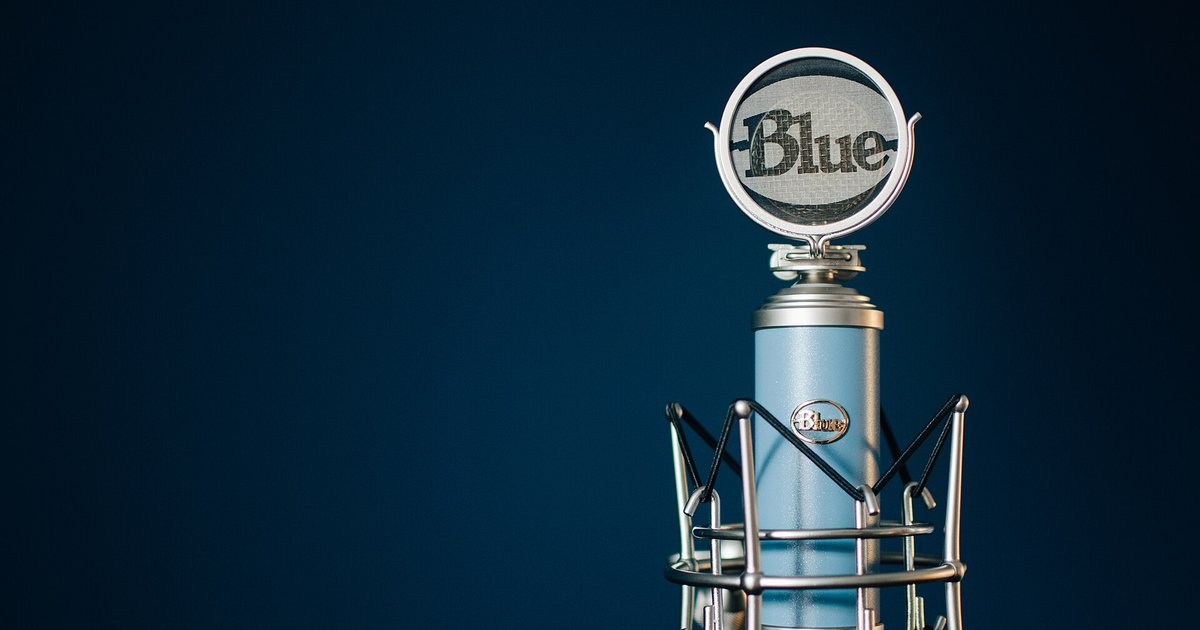
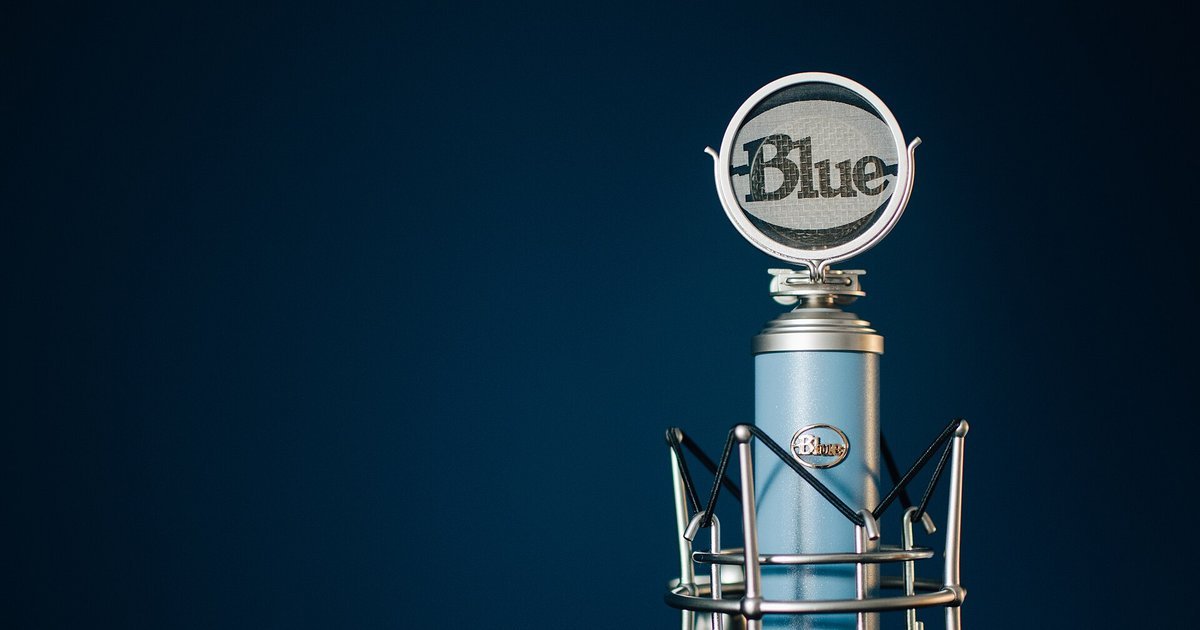
Azken artikuluei CC azal-irudiak gehitu
- FUTO (bi), GLiNER2, EvalEU eta NongoEuskara: Wikimedia Commons-eko irudiak cover gisa, aitortzarekin
- Pocket TTS mikrofonoaren mozketa zuzenduta zerrendan burua ikusteko
- Erabiltzen ez ziren ingelesezko FUTO txartelak kenduta

Changed region(s): [[0.555, 0.6333, 0.8325, 1.0], [0.5858, 0.0603, 0.7708, 0.573]]

diff --git a/content/blog/nongoeuskara.md b/content/blog/nongoeuskara.md
@@ -2,7 +2,9 @@
 title: "Euskalkiak identifikatzen"
 date: 2026-06-28
 description: "NongoEuskara: testu bat zein euskalkitan idatzia dagoen asmatzen duen fastText eredua, nabigatzailean WebAssembly bidez exekutatzen dena."
-images: ["images/pi_autoresearch_zeineuski.png"]
+cover:
+    image: "/images/nongoeuskara-cover.jpg"
+    alt: "Euskalkien mapa (Koldo Zuazo, 2019)"
 draft: false
 tags: ["ai", "euskara", "euskalkiak", "dialect", "fasttext", "autoreserch", "webassembly", "wasm"]
 ---
@@ -43,3 +45,5 @@ Eredu hauekin zer egin, eta demo txukun bat egin behar zela pentsatu nuen. Web e
 Erabiltzaileak testu bat sartu, identifikatu eta Euskal Herriko mapan azpieuskalkia eta dagokion eskualde multzoa azpimarratzea nahi nuen. **Spoiler:** nola ez, *frontend* zati hau izan da gehien kostatu zaidan zatia! Entrenamendua baina gehiago!
 
 Hau egiteko, *WebAssembly* (*WASM*) bidez exekutatu behar izan dut eredua, aldez aurretik *kuantizatuta* (konprimatuta). Ondorio gisa: **_WASM_** ikaragarria da horrelako gauzetarako! Zerbitzaririk gabe, datuak inora bidali gabe, erabiltzaileok gure nabigatzaileetan punta-puntako aplikazio edo adimen artifizialeko ereduak exekutatu ditzakegu.
+
+*Azaleko irudia: [Euskalkien mapa, 2019](https://commons.wikimedia.org/wiki/File:Koldo_Zuazo_-_Euskalkien_mapa,_2019.jpg), Koldo Zuazo, [CC BY-SA 4.0](https://creativecommons.org/licenses/by-sa/4.0/).*

diff --git a/content/blog/nongoeuskara.en.md b/content/blog/nongoeuskara.en.md
@@ -2,7 +2,9 @@
 title: "Identifying Basque dialects"
 date: 2026-06-28
 description: "NongoEuskara: a fastText model that guesses which Basque dialect a text is written in, running in the browser via WebAssembly."
-images: ["images/pi_autoresearch_zeineuski.png"]
+cover:
+    image: "/images/nongoeuskara-cover.jpg"
+    alt: "Map of Basque dialects (Koldo Zuazo, 2019)"
 draft: false
 tags: ["ai", "basque", "dialects", "dialect", "fasttext", "autoresearch"]
 ---
@@ -42,3 +44,5 @@ With these models in hand, I thought, "what do I do with them?" — and decided 
 I wanted users to enter a text, have it identified, and then highlight the sub-dialect and corresponding region on a map of the Basque Country. **Spoiler:** of course, the *frontend* part was the most painful bit! Even more than the training!
 
 To do this, I had to run the model via *WebAssembly* (*WASM*), previously *quantized* (compressed). Same conclusion again: *WASM* is amazing for this kind of thing! Without a server, without sending data anywhere, we as users can run cutting-edge applications or AI models right in our browsers.
+
+*Cover image: [Euskalkien mapa, 2019](https://commons.wikimedia.org/wiki/File:Koldo_Zuazo_-_Euskalkien_mapa,_2019.jpg), Koldo Zuazo, [CC BY-SA 4.0](https://creativecommons.org/licenses/by-sa/4.0/).*

diff --git a/content/blog/gliner2-pii-euskaraz.md b/content/blog/gliner2-pii-euskaraz.md
@@ -2,7 +2,9 @@
 title: "Datu pertsonalak ezkutatzen euskarazko testuetan"
 date: 2026-10-10
 description: "GLiNER2 eredua euskarara egokitzen, testuetako datu pertsonalak (izenak, telefonoak, helbideak, NANak...) detektatzeko: babes-geruza gehigarri bat."
-images: ["images/gliner2-pii-euskaraz-cover.jpg"]
+cover:
+    image: "/images/gliner2-pii-euskaraz-cover.jpg"
+    alt: "Lupa bat testu baten gainean"
 draft: false
 tags: ["ai", "euskara", "pii", "pribatutasuna", "gliner2", "ner", "lora", "tknika"]
 ---
@@ -60,3 +62,5 @@ Edo hizkuntza eredu bati (LLM) zerbait eskatu aurretik, nahi gabe idatzi dugun i
 > Kontuan izan: ebaluazioa datu sintetikoekin egin da, eta benetako testuetan emaitzak okerragoak izango dira. Ereduak [CC BY-NC-SA 4.0](https://creativecommons.org/licenses/by-nc-sa/4.0/) lizentzia du (erabilera ez-komertziala), BasqueGLUE-k lizentzia hori duelako.
 
 Eredua, datu-sorta eta kodea eskuragarri daude: [Hugging Face](https://huggingface.co/tknika/gliner2-PII-basque-v2) eta [GitHub](https://github.com/tknika/gliner2-pii-basque).
+
+*Azaleko irudia: [Magnifying glass with focus on paper](https://commons.wikimedia.org/wiki/File:Magnifying_glass_with_focus_on_paper.png), Niabot, [CC BY-SA 3.0](https://creativecommons.org/licenses/by-sa/3.0/).*

diff --git a/content/blog/futo-ahotsa-euskaraz.en.md b/content/blog/futo-ahotsa-euskaraz.en.md
@@ -2,7 +2,9 @@
 title: "Dictating in Basque on mobile, without sending your voice anywhere"
 date: 2026-07-21
 description: "A Basque Whisper model for FUTO Keyboard: dictate in Basque on your phone, with everything running on the device and no audio sent anywhere."
-images: ["images/futo-ahotsa-euskaraz-en-cover.jpg"]
+cover:
+    image: "/images/futo-ahotsa-euskaraz-cover.jpg"
+    alt: "Speaking into a phone"
 draft: false
 tags: ["ai", "euskara", "basque", "stt", "asr", "whisper", "whisper.cpp", "acft", "futo", "voice-input"]
 ---
@@ -64,3 +66,5 @@ And you're done! Tap the microphone button and speak in Basque.
 - **Evaluation**: so far I've only run a few tests. A more thorough evaluation is still needed.
 
 The models are available [on Hugging Face](https://huggingface.co/itzune/whisper-small-eu-acft-ggml), as part of the [Itzune](https://huggingface.co/itzune) project. Together with predictive text, we now have the full FUTO keyboard in Basque: for typing and for speaking, all on our own phone. Try it out and let me know how it goes!
+
+*Cover image: [Woman speaking on phone](https://commons.wikimedia.org/wiki/File:Woman_speaking_on_phone.jpg), Queen Asali, [CC BY-SA 4.0](https://creativecommons.org/licenses/by-sa/4.0/).*

diff --git a/content/blog/gliner2-pii-euskaraz.en.md b/content/blog/gliner2-pii-euskaraz.en.md
@@ -2,7 +2,9 @@
 title: "Hiding personal data in Basque texts"
 date: 2026-10-10
 description: "Adapting GLiNER2 to Basque to detect personal data (names, phone numbers, addresses, IDs...) in texts: an extra layer of protection."
-images: ["images/gliner2-pii-euskaraz-cover.jpg"]
+cover:
+    image: "/images/gliner2-pii-euskaraz-cover.jpg"
+    alt: "A magnifying glass over text"
 draft: false
 tags: ["ai", "euskara", "basque", "pii", "privacy", "gliner2", "ner", "lora", "tknika"]
 ---
@@ -60,3 +62,5 @@ Or before asking a language model (LLM) for something, to catch a name or phone 
 > Keep in mind: the evaluation was done on synthetic data, and results on real texts will be worse. The model is licensed under [CC BY-NC-SA 4.0](https://creativecommons.org/licenses/by-nc-sa/4.0/) (non-commercial use), because BasqueGLUE has that license.
 
 The model, dataset and code are available on [Hugging Face](https://huggingface.co/tknika/gliner2-PII-basque-v2) and [GitHub](https://github.com/tknika/gliner2-pii-basque).
+
+*Cover image: [Magnifying glass with focus on paper](https://commons.wikimedia.org/wiki/File:Magnifying_glass_with_focus_on_paper.png), Niabot, [CC BY-SA 3.0](https://creativecommons.org/licenses/by-sa/3.0/).*

diff --git a/content/blog/futo-euskaraz.md b/content/blog/futo-euskaraz.md
@@ -2,7 +2,9 @@
 title: "Euskarazko testu prediktiboa mugikorretan pribatutasuna errespetatuz"
 date: 2026-07-20
 description: "FUTO Keyboard-erako euskarazko hizkuntza eredu txikia: hurrengo hitza iragarri eta akatsak zuzentzen ditu Android-en, pribatutasuna errespetatuz."
-images: ["images/futo-euskaraz-cover.jpg"]
+cover:
+    image: "/images/futo-euskaraz-cover.jpg"
+    alt: "Mugikorrean idazten"
 draft: false
 tags: ["ai", "euskara", "autocompletion", "gboard", "transformer", "llama", "latxa", "futo", "auto-osaketa"]
 ---
@@ -78,3 +80,5 @@ Bada [hari bat FUTOren GitHub webgunean](https://github.com/futo-org/android-key
 > FUTOk *"FUTO Source First License"* lizentzia propioa erabiltzen du. Kodea eskuragarri eta aldatzeko aukerarekin uzten du, baina muga batzuekin. Besteak beste, erabilera komertziala ez da onartzen.
 >
 >Hau dela eta, OSI (Open Source Initiative) edo FSF (Free Software Foundation) bezalako erakundeen arabera **FUTOk ez ditu software-aske gisa izendatzeko baldintzak betetzen**.
+
+*Azaleko irudia: [Woman texting on a smartphone](https://commons.wikimedia.org/wiki/File:Woman_texting_on_a_smartphone.jpg), Kristin Hardwick, [CC0](https://creativecommons.org/publicdomain/zero/1.0/).*

diff --git a/content/blog/futo-ahotsa-euskaraz.md b/content/blog/futo-ahotsa-euskaraz.md
@@ -2,7 +2,9 @@
 title: "Euskaraz diktatzen mugikorrean, ahotsa inora bidali gabe"
 date: 2026-07-21
 description: "FUTO Keyboard-erako euskarazko Whisper eredua: mugikorrean euskaraz diktatzeko, dena telefonoan bertan exekutatuta, ahotsa inora bidali gabe."
-images: ["images/futo-ahotsa-euskaraz-cover.jpg"]
+cover:
+    image: "/images/futo-ahotsa-euskaraz-cover.jpg"
+    alt: "Mugikorrari hitz egiten"
 draft: false
 tags: ["ai", "euskara", "stt", "asr", "whisper", "whisper.cpp", "acft", "futo", "ahots-sarrera"]
 ---
@@ -64,3 +66,5 @@ Eta prest! Sakatu mikrofonoaren botoia eta hitz egin euskaraz.
 - **Ebaluazioa**: oraingoz proba gutxi egin ditut. Ebaluazio sakonagoa egitea falta da.
 
 Ereduak [Hugging Face-n](https://huggingface.co/itzune/whisper-small-eu-acft-ggml) eskuragarri daude, [Itzune](https://huggingface.co/itzune) proiektuaren baitan. Testu prediktiboarekin batera, FUTO teklatua osorik dugu euskaraz: idazteko eta hitz egiteko, dena gure mugikorrean. Probatu eta esan zer moduz!
+
+*Azaleko irudia: [Woman speaking on phone](https://commons.wikimedia.org/wiki/File:Woman_speaking_on_phone.jpg), Queen Asali, [CC BY-SA 4.0](https://creativecommons.org/licenses/by-sa/4.0/).*

diff --git a/content/blog/futo-euskaraz.en.md b/content/blog/futo-euskaraz.en.md
@@ -2,7 +2,9 @@
 title: "Basque predictive text on mobile, respecting privacy"
 date: 2026-07-20
 description: "A small Basque language model for FUTO Keyboard: next-word prediction and autocorrect on Android, while respecting your privacy."
-images: ["images/futo-euskaraz-en-cover.jpg"]
+cover:
+    image: "/images/futo-euskaraz-cover.jpg"
+    alt: "Typing on a smartphone"
 draft: false
 tags: ["ai", "euskara", "basque", "autocompletion", "gboard", "transformer", "llama", "latxa", "futo", "auto-osaketa"]
 ---
@@ -78,3 +80,5 @@ There's [a thread on FUTO's GitHub](https://github.com/futo-org/android-keyboard
 > FUTO uses its own *"FUTO Source First License"*. It makes the code available and modifiable, but with some limitations. Among others, commercial use is not permitted.
 >
 >Because of this, according to organizations such as OSI (Open Source Initiative) or FSF (Free Software Foundation), **FUTO does not meet the requirements to be classified as free/open-source software**.
+
+*Cover image: [Woman texting on a smartphone](https://commons.wikimedia.org/wiki/File:Woman_texting_on_a_smartphone.jpg), Kristin Hardwick, [CC0](https://creativecommons.org/publicdomain/zero/1.0/).*

diff --git a/content/blog/zein-hizkuntza-eredu-da-hobea-euskaraz.en.md b/content/blog/zein-hizkuntza-eredu-da-hobea-euskaraz.en.md
@@ -2,7 +2,9 @@
 title: "Which language model performs best in Basque?"
 date: 2026-05-23
 description: "EvalEU: an open ranking that measures and compares how well local language models (Latxa, Kimu, Qwen, Gemma...) handle Basque."
-images: ["images/evaleu_table.png"]
+cover:
+    image: "/images/zein-hizkuntza-eredu-da-hobea-euskaraz-cover.jpg"
+    alt: "Colored tape measure"
 draft: false
 tags: ["ai", "euskara", "basque", "llm", "orai", "hitz", "benchmark", "leaderboard", "evaluation"]
 ---
@@ -24,3 +26,5 @@ Among the things I would like to add in the future:
 - Beyond local models, also include large proprietary models offered via API (OpenAI, Google, Anthropic...)
 
 The project has been published under the [Itzune](https://itzune.eus) initiative. In addition to the website, you will find the tools used to run the evaluations in the [repository](https://github.com/itzune/evaleu). Improvements and ideas are very welcome!
+
+*Cover image: [Tape measure colored](https://commons.wikimedia.org/wiki/File:Tape_measure_colored.jpeg), Simon A. Eugster, [CC BY-SA 3.0](https://creativecommons.org/licenses/by-sa/3.0/).*

diff --git a/content/blog/zein-hizkuntza-eredu-da-hobea-euskaraz.md b/content/blog/zein-hizkuntza-eredu-da-hobea-euskaraz.md
@@ -2,7 +2,9 @@
 title: "Zein hizkuntza eredu da hobea euskaraz?"
 date: 2026-05-23
 description: "EvalEU: euskarazko hizkuntza eredu lokalen (Latxa, Kimu, Qwen, Gemma...) euskara maila neurtu eta alderatzeko ranking irekia."
-images: ["images/evaleu_table.png"]
+cover:
+    image: "/images/zein-hizkuntza-eredu-da-hobea-euskaraz-cover.jpg"
+    alt: "Koloretako metroa"
 draft: false
 tags: ["ai", "euskara", "llm", "orai", "hitz", "benchmark", "leaderboard", "evaluation"]
 ---
@@ -24,3 +26,5 @@ Etorkizunean gehitu nahiko nituzkeen gauzen artean:
 - Eredu lokalaz aratago, api bidezko hornitzaileek eskeinitako eredu erraldoiak ere gehitu (OpenAI, Google, Anthropic...)
 
 Proiektua [Itzune](https://itzune.eus) ekimenaren baitan argitaratu dut. Webguneaz gain, [biltegian](https://github.com/itzune/evaleu) ebaluazioak sortzeko erabilitako tresnak ere aurkituko dituzue. Hobekuntzak eta ideiak eskertzen dira!
+
+*Azaleko irudia: [Tape measure colored](https://commons.wikimedia.org/wiki/File:Tape_measure_colored.jpeg), Simon A. Eugster, [CC BY-SA 3.0](https://creativecommons.org/licenses/by-sa/3.0/).*

diff --git a/content/blog/euskarazko-ahots-sintesirako-ereduak.md b/content/blog/euskarazko-ahots-sintesirako-ereduak.md
@@ -83,4 +83,4 @@ Bapateko sintesia behar dugunean, edozein gailutan lokalean exekutatzeko, euskar
 
 Aldiz, kalitate handiko euskarazko ahotsak sortu behar ditugunean, emaitzaren kontrol handiagoarekin, **OmniVoice** aukera interesgarria izan daitekela iruditzen zait. Hori bai, horretarako GPU txartela duen ordenagailua edo zerbitzaria beharko dugu.
 
-*Partekatzeko irudia: [Aston Origin large diaphragm condenser microphone](https://commons.wikimedia.org/wiki/File:Aston_Origin_large_diaphragm_condenser_microphone.jpg), Bizzarle, [CC BY-SA 4.0](https://creativecommons.org/licenses/by-sa/4.0/).*
+*Azaleko irudia: [Aston Origin large diaphragm condenser microphone](https://commons.wikimedia.org/wiki/File:Aston_Origin_large_diaphragm_condenser_microphone.jpg), Bizzarle, [CC BY-SA 4.0](https://creativecommons.org/licenses/by-sa/4.0/).*

diff --git a/content/blog/euskarazko-ahots-sintesirako-ereduak.en.md b/content/blog/euskarazko-ahots-sintesirako-ereduak.en.md
@@ -83,4 +83,4 @@ When we need instant synthesis, and especially to run locally on almost any devi
 
 On the other hand, when we need high-quality Basque voice generation with greater control over the output, **OmniVoice** looks like a very interesting option. That said, for this use case you will likely need a computer or server with a GPU.
 
-*Sharing image: [Aston Origin large diaphragm condenser microphone](https://commons.wikimedia.org/wiki/File:Aston_Origin_large_diaphragm_condenser_microphone.jpg), Bizzarle, [CC BY-SA 4.0](https://creativecommons.org/licenses/by-sa/4.0/).*
+*Cover image: [Aston Origin large diaphragm condenser microphone](https://commons.wikimedia.org/wiki/File:Aston_Origin_large_diaphragm_condenser_microphone.jpg), Bizzarle, [CC BY-SA 4.0](https://creativecommons.org/licenses/by-sa/4.0/).*
